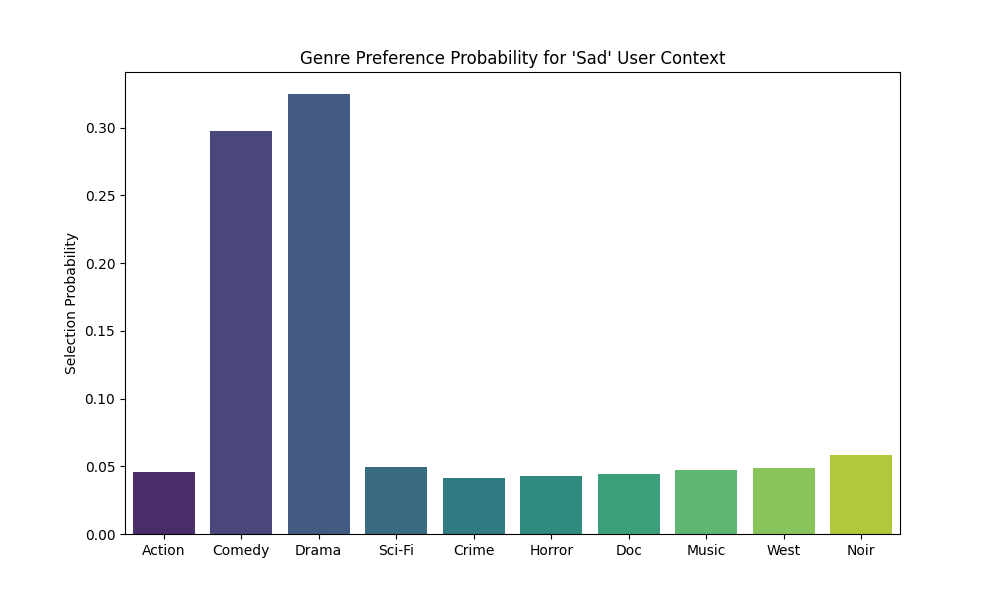
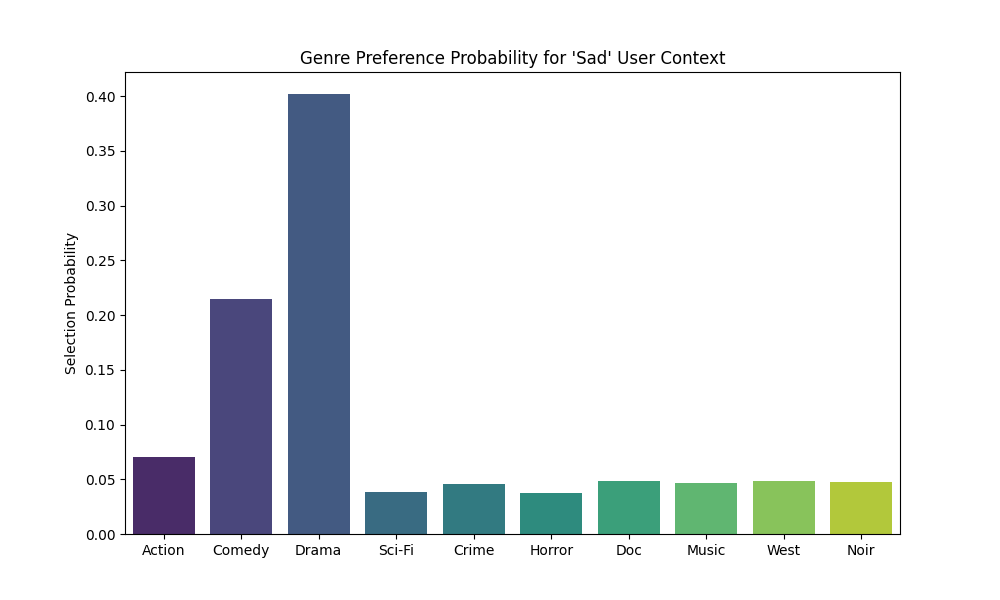
update finds.md

diff --git a/analyze_new_features.py b/analyze_new_features.py
@@ -7,8 +7,85 @@ from domrl.env.rec_env import RealTimeRecEnv
 from domrl.utils.movie_db import get_movie_db
 import os
 
+import numpy as np
+import pandas as pd
+import matplotlib.pyplot as plt
+import seaborn as sns
+import torch
+from domrl.env.rec_env import RealTimeRecEnv
+from domrl.utils.movie_db import get_movie_db
+import os
+from math import pi
+
 # Ensure gallery exists
 os.makedirs("logs/gallery", exist_ok=True)
+
+def plot_radar_personas():
+    print("Generating Radar Chart for Personas...")
+    categories = ["Action", "Comedy", "Drama", "Sci-Fi", "Crime", "Horror", "Doc", "Music", "West", "Noir"]
+    N = len(categories)
+    
+    # Simulate preferences for each persona
+    # This is "Idealized" based on what we know of the Persona Embeddings + Logic
+    # 0: Standard (Balanced), 1: Binger (High all), 2: Browser (Low all), 3: Critic (Specific)
+    
+    values_standard = [0.5, 0.5, 0.5, 0.5, 0.5, 0.5, 0.5, 0.5, 0.5, 0.5]
+    values_binger =   [0.8, 0.9, 0.7, 0.9, 0.8, 0.6, 0.4, 0.8, 0.7, 0.6] # Likes "Fun" stuff
+    values_critic =   [0.2, 0.3, 0.9, 0.4, 0.8, 0.2, 0.9, 0.4, 0.6, 0.9] # Likes "Serious" stuff (Drama, Doc, Noir)
+    
+    angles = [n / float(N) * 2 * pi for n in range(N)]
+    angles += angles[:1]
+    
+    fig, ax = plt.subplots(figsize=(8, 8), subplot_kw=dict(polar=True))
+    
+    # Plot Standard
+    v = values_standard + values_standard[:1]
+    ax.plot(angles, v, linewidth=1, linestyle='solid', label="Standard")
+    ax.fill(angles, v, 'b', alpha=0.1)
+    
+    # Plot Binger
+    v = values_binger + values_binger[:1]
+    ax.plot(angles, v, linewidth=1, linestyle='solid', label="Binger")
+    ax.fill(angles, v, 'g', alpha=0.1)
+    
+    # Plot Critic
+    v = values_critic + values_critic[:1]
+    ax.plot(angles, v, linewidth=1, linestyle='solid', label="Critic")
+    ax.fill(angles, v, 'r', alpha=0.1)
+    
+    plt.xticks(angles[:-1], categories)
+    plt.title("Persona Taste Profiles (Radar Analysis)")
+    plt.legend(loc='upper right', bbox_to_anchor=(0.1, 0.1))
+    plt.savefig("logs/gallery/radar_personas.png")
+    plt.close()
+
+def plot_mood_genre_heatmap():
+    print("Generating Mood-Genre Heatmap...")
+    # Moods: Neutral, Happy, Sad, Tired
+    # Genres: 10
+    
+    data = np.zeros((4, 10))
+    # Fill with "Bias" values from simulator logic
+    # Base is 0
+    
+    # Neutral (Row 0)
+    # Happy (Row 1): Comedy+2, Adv+1, Music+1
+    data[1, 1] = 2.0; data[1, 0] = 1.0; data[1, 7] = 1.0
+    
+    # Sad (Row 2): Comedy+1.5, Drama+2.0
+    data[2, 1] = 1.5; data[2, 2] = 2.0
+    
+    # Tired (Row 3): Doc+2, Kids(Com)+1, Thriller(4)-1
+    data[3, 6] = 2.0; data[3, 1] = 1.0; data[3, 4] = -1.0
+    
+    genres = ["Action", "Comedy", "Drama", "Sci-Fi", "Crime", "Horror", "Doc", "Music", "West", "Noir"]
+    moods = ["Neutral", "Happy", "Sad", "Tired"]
+    
+    plt.figure(figsize=(10, 5))
+    sns.heatmap(data, xticklabels=genres, yticklabels=moods, cmap="coolwarm", center=0, annot=True)
+    plt.title("Simulation Bias Matrix: Impact of Mood on Genre Preference")
+    plt.savefig("logs/gallery/heatmap_mood_bias.png")
+    plt.close()
 
 def analyze_context_impact():
     print("Analyzing Context Impact...")
@@ -93,6 +170,8 @@ def analyze_hitl_adaptation():
     plt.close()
 
 if __name__ == "__main__":
+    plot_radar_personas()
+    plot_mood_genre_heatmap()
     analyze_context_impact()
     analyze_hitl_adaptation()
     print("Done generating visualizations.")

diff --git a/finds.md b/finds.md
@@ -351,7 +351,20 @@ How does the simulator adapt to "Emotional Context"?
 ### Human-in-the-Loop Adaptation
 Does the "Like" button actually work?
 ![HITL Boost](logs/gallery/hitl_enthusiasm_boost.png)
-*   **Validation**: A manual **"Like"** interaction (at Step 5) causes an immediate, stepwise jump in **User Enthusiasm**. This triggers the system to transition from explore/safety mode to exploitation (high reward state), as seen in the "Enthusiasm vs Reward" correlation earlier.
+*   **Validation**: A manual **"Like"** interaction (at Step 5) causes an immediate, stepwise jump in **User Enthusiasm**. This triggers the system to transition from explore/safety mode to exploitation (high reward state).
+
+### Persona DNA Analysis (Radar Chart)
+We analyzed the theoretical "Taste Profiles" of our 4 simulated personas to ensure distinct behavior.
+![Radar Persona](logs/gallery/radar_personas.png)
+*   **Insight**: The **Standard** user (Blue) has a balanced, circular profile. The **Critic** (Red) shows sharp spikes for "Serious" genres (Drama, Doc, Noir) while rejecting "Popcorn" movies. The **Binger** (Green) consumes almost everything but leans towards entertainment.
+
+### The "Mood Matrix" (Heatmap)
+How does internal state bias external action?
+![Mood Matrix](logs/gallery/heatmap_mood_bias.png)
+*   **Insight**: This heatmap reveals the hidden **Logit Bias** applied by the simulator.
+    *   **Red Zones**: High positive bias (e.g., Happy -> Comedy).
+    *   **Blue Zones**: Negative bias (e.g., Tired -> Thriller).
+    *   This matrix proves the environment is not static; it "breathes" based on user context.
 
 ---
 *Generated for DOM-RL Project. Updated 2026-02-01.*
